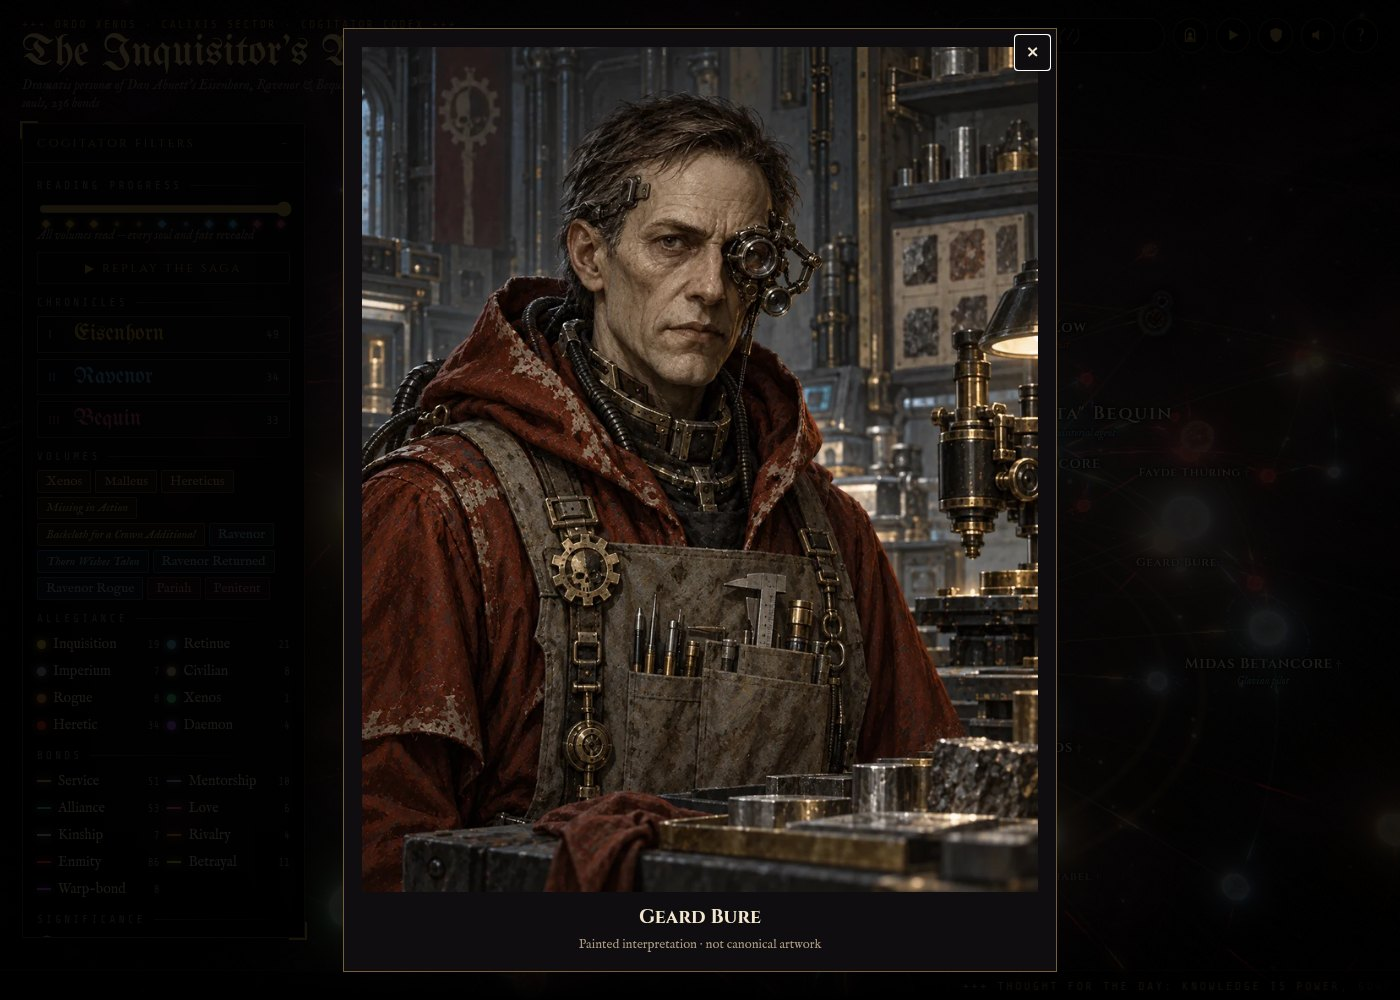
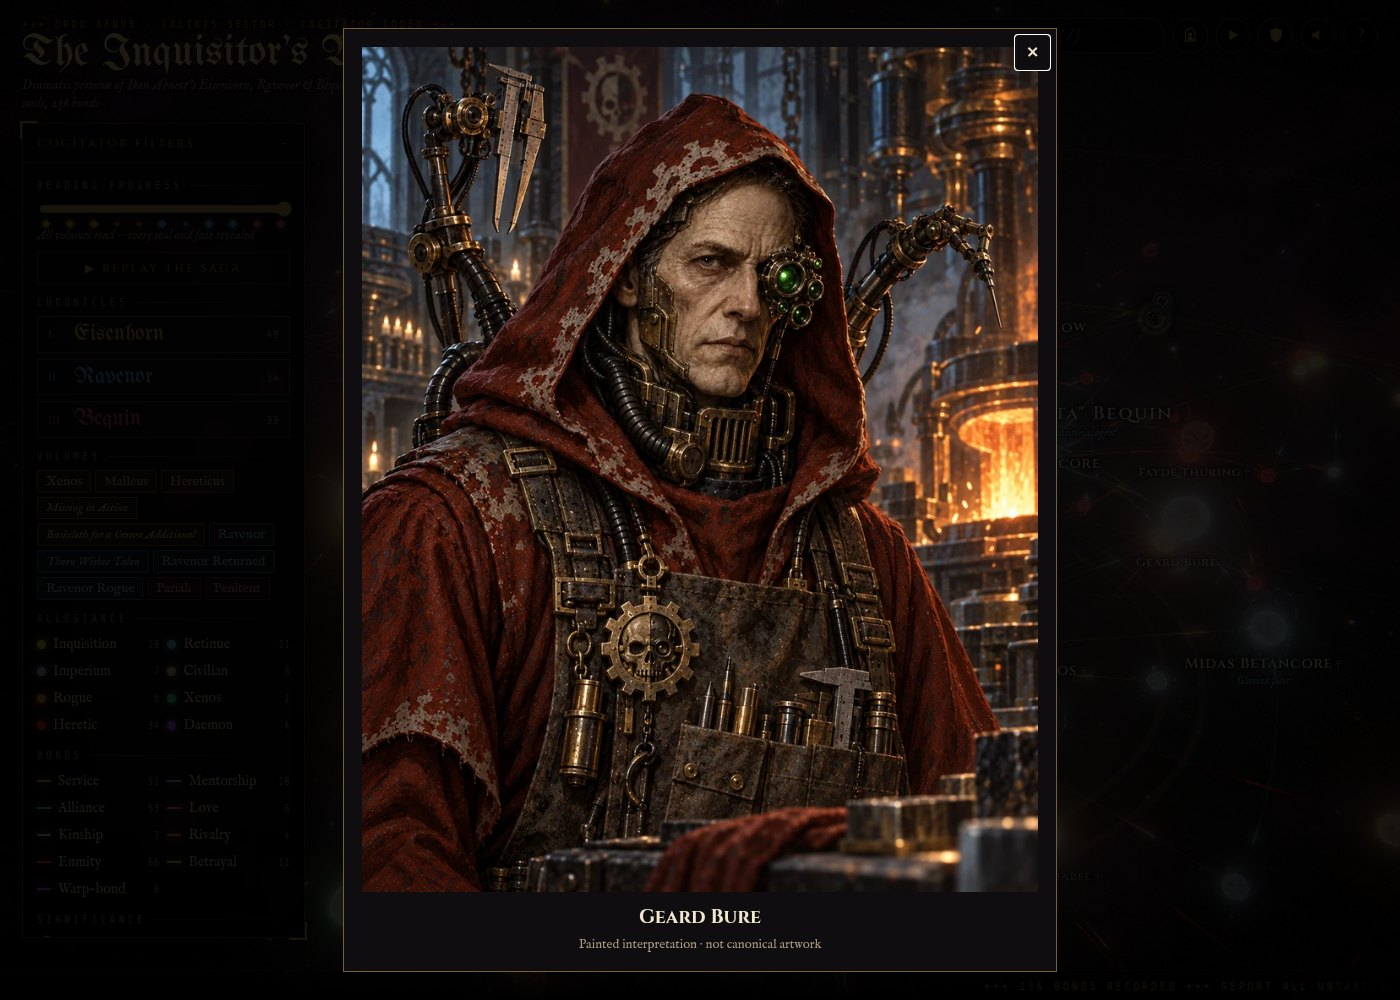
Portraits: Geard Bure as a classic Mechanicus tech-priest (v3)

Changed region(s): [[0.2457, 0.031, 0.7679, 0.899]]

diff --git a/docs/portraits/revisions-2026-10-09.md b/docs/portraits/revisions-2026-10-09.md
@@ -7,7 +7,7 @@ Four existing portraits were edited with the **built-in ChatGPT Images tool**, p
 | Gregor Eisenhorn | Earlier incarnation: swept-back dark hair with silver streaks, red-lined collar, green shoulder armour, blue chest strap and gold insignia; no later-period cranial framework | [PNG](sources/gregor-eisenhorn.chatgpt-v3.png) | [Prompt](gregor-eisenhorn-chatgpt-v3.prompt.txt) |
 | Tobias Maxilla | Later-novel blue velvet finery, pale powdered wig, fantail hat, jabot and green jewel beauty spot | [PNG](sources/tobias-maxilla.chatgpt-v2.png) | [Prompt](tobias-maxilla-chatgpt-v2.prompt.txt) |
 | Uber Aemos | More ancient and fragile: hollow cheeks, bony neck, thin age-spotted skin, sparse white hair and narrow sloping shoulders; retain augmetic glasses | [PNG](sources/uber-aemos.chatgpt-v3.png) | [Prompt](uber-aemos-chatgpt-v3.prompt.txt) |
-| Geard Bure | Hood lowered, readable face, functional optics and tool apron in a materials-science laboratory | [PNG](sources/geard-bure.chatgpt-v2.png) | [Prompt](geard-bure-chatgpt-v2.prompt.txt) |
+| Geard Bure | Classic Mechanicus tech-priest: red hooded robes with a readable face, optic eye, jaw augmetic, servo-arms with smithing tools, Cog Mechanicus and smith's apron, in his Cinchare forge (an earlier v2 showed him as a lab metallurgist) | [PNG](sources/geard-bure.chatgpt-v3.png) | [Prompt](geard-bure-chatgpt-v3.prompt.txt) |
 
 ## Additional Maxilla appearance research
 
@@ -21,7 +21,7 @@ The sapphire/silver-cap and emerald/wig descriptions belong to different appeara
 
 Aemos retains his established ancient savant identity and distinctive augmetic eyewear; the edit emphasises physical frailty rather than changing him into a mechanical priest.
 
-Bure is identified as an Adeptus Mechanicus magos and metallurgist in the existing project research, with no physical description established. His exposed face, technical apron, compact optics and laboratory are therefore expressly **role-based artistic interpretation**, not newly discovered canonical traits. The user's request overrides the earlier prompt's deliberate face-obscuring shadow.
+Bure is identified as an Adeptus Mechanicus magos and metallurgist in the existing project research, with no physical description established. As a Magos he is a senior tech-priest, so the selected portrait gives him the classic Mechanicus look: hooded red robes, an optic eye, augmetics, servo-arms with smithing tools and a forge setting. These details, and his readable face, are expressly **role-based artistic interpretation**, not canonical traits.
 
 ## Astartes proportion corrections
 

diff --git a/docs/portraits/all-chatgpt.md b/docs/portraits/all-chatgpt.md
@@ -67,7 +67,7 @@ These scenes and unrecorded physical details are **artistic interpretations, not
 | Feaver Skoh | rogue | [WebP](../../public/portraits/feaver-skoh.webp) | [PNG](sources/feaver-skoh.chatgpt.png) | [Prompt](feaver-skoh-chatgpt.prompt.txt) |
 | Freddy Dance | civilian | [WebP](../../public/portraits/freddy-dance.webp) | [PNG](sources/freddy-dance.chatgpt.png) | [Prompt](freddy-dance-chatgpt.prompt.txt) |
 | Gall Ballack | heretic | [WebP](../../public/portraits/gall-ballack.webp) | [PNG](sources/gall-ballack.chatgpt.png) | [Prompt](gall-ballack-chatgpt.prompt.txt) |
-| Geard Bure | imperial | [WebP](../../public/portraits/geard-bure.webp) | [PNG](sources/geard-bure.chatgpt-v2.png) | [Prompt](geard-bure-chatgpt-v2.prompt.txt) |
+| Geard Bure | imperial | [WebP](../../public/portraits/geard-bure.webp) | [PNG](sources/geard-bure.chatgpt-v3.png) | [Prompt](geard-bure-chatgpt-v3.prompt.txt) |
 | Gideon Ravenor | inquisition | [WebP](../../public/portraits/gideon-ravenor.webp) | [PNG](sources/gideon-ravenor.chatgpt-background-v2.png) | [Prompt](gideon-ravenor-chatgpt-background-v2.prompt.txt) |
 | Girolamo Malahite | heretic | [WebP](../../public/portraits/girolamo-malahite.webp) | [PNG](sources/girolamo-malahite.chatgpt.png) | [Prompt](girolamo-malahite-chatgpt.prompt.txt) |
 | Godwyn Fischig | retinue | [WebP](../../public/portraits/godwyn-fischig.webp) | [PNG](sources/godwyn-fischig.chatgpt.png) | [Prompt](godwyn-fischig-chatgpt.prompt.txt) |
